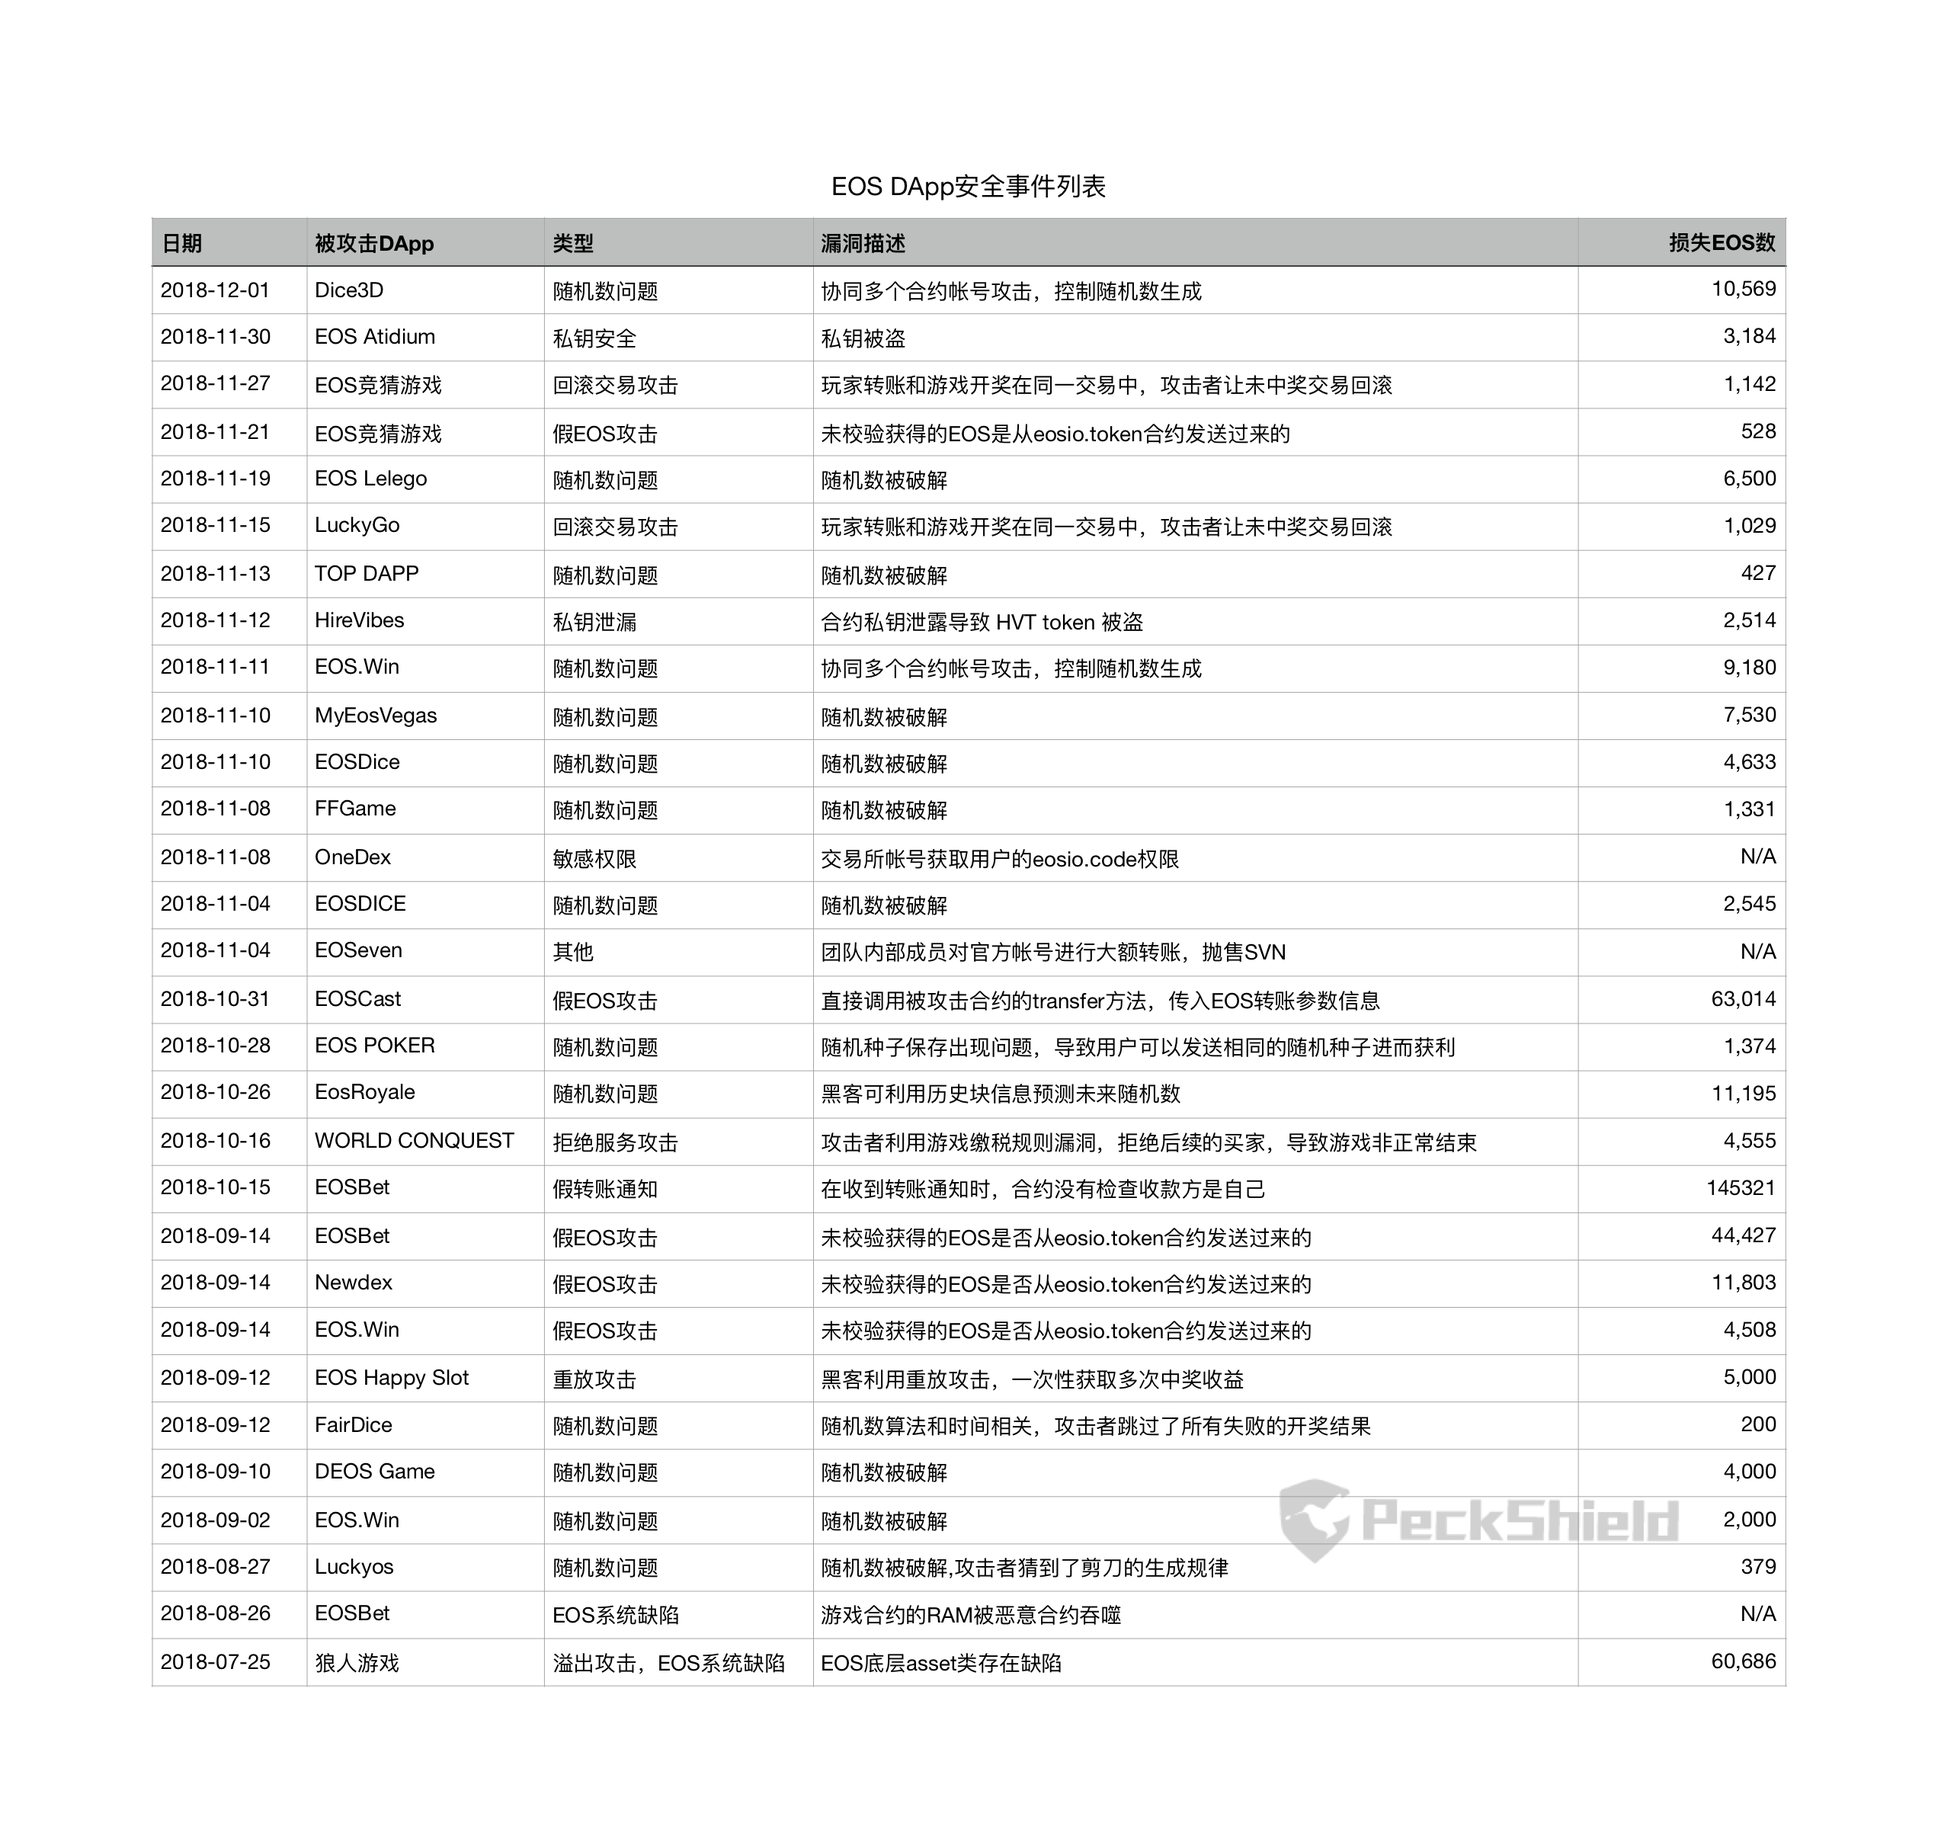
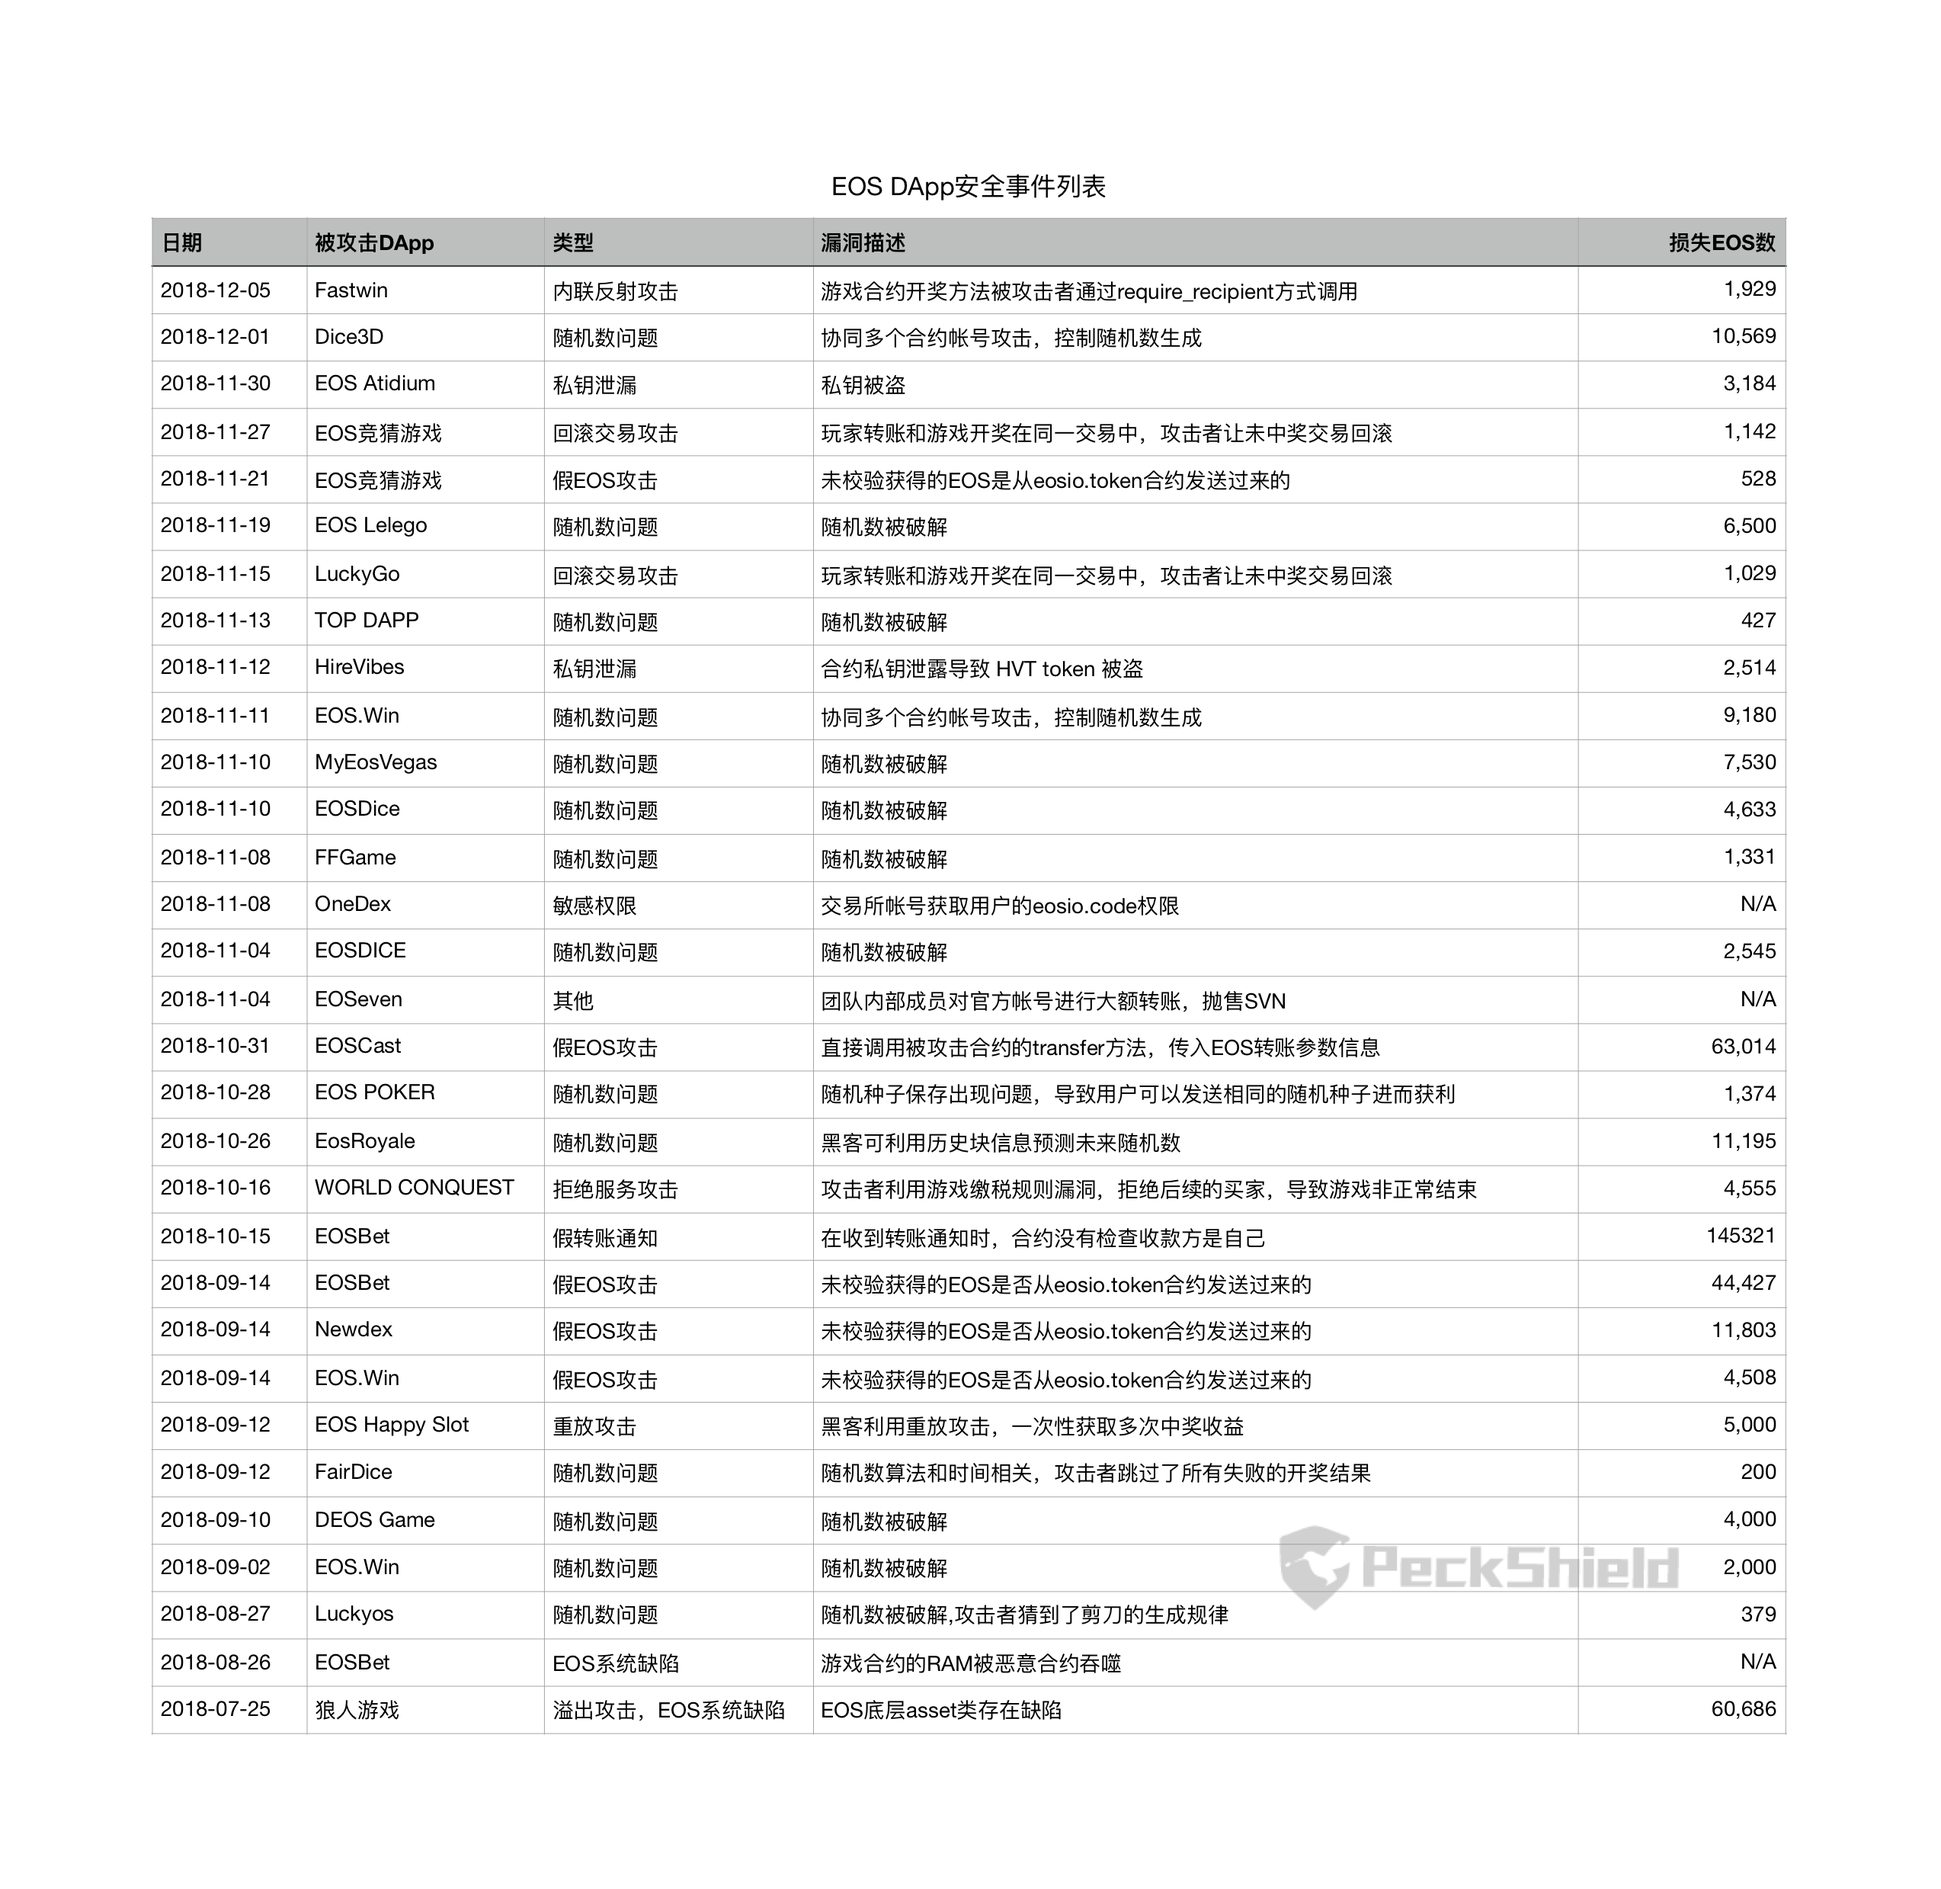
upate 2018-12-7

Changed region(s): [[0.062, 0.0931, 0.9305, 0.9309]]

diff --git a/known_dapp_attacks/README.md b/known_dapp_attacks/README.md
@@ -3,7 +3,7 @@
 本文档根据发生的EOS DApp安全事件不定期更新，旨在记录EOS主网上线以来发生的各类DApp安全事件，供大家参考，同时欢迎大家对该文档提出建议及指正，以完善文档，一起促进EOS的生态健康发展。
 
 ## 概要
-截至2018年12月03日，共发生30起DApp安全事件，共损失近41万个EOS
+截至2018年12月06日，共发生31起DApp安全事件，共损失超过41万个EOS
 ![EOS DApp安全事件列表](dapp_attacks_summary.png)
 
 ## EOS DApp安全事件列表
